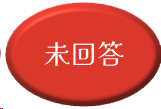
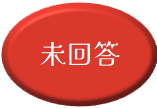
クイズのボタンサイズ調整

diff --git a/src/components/quiz/CustomRadioButton.tsx b/src/components/quiz/CustomRadioButton.tsx
@@ -31,10 +31,13 @@ const CustomRadioButton = (props: {
         {
           '&:hover': { backgroundColor: 'blue' },
         },
+        {
+          width: '15%',
+        },
       ]}
       onClick={handleClick}
     >
-      <img src={img} alt={title} width={100} />
+      <img src={img} alt={title} width="100%" />
     </Button>
   );
 };
